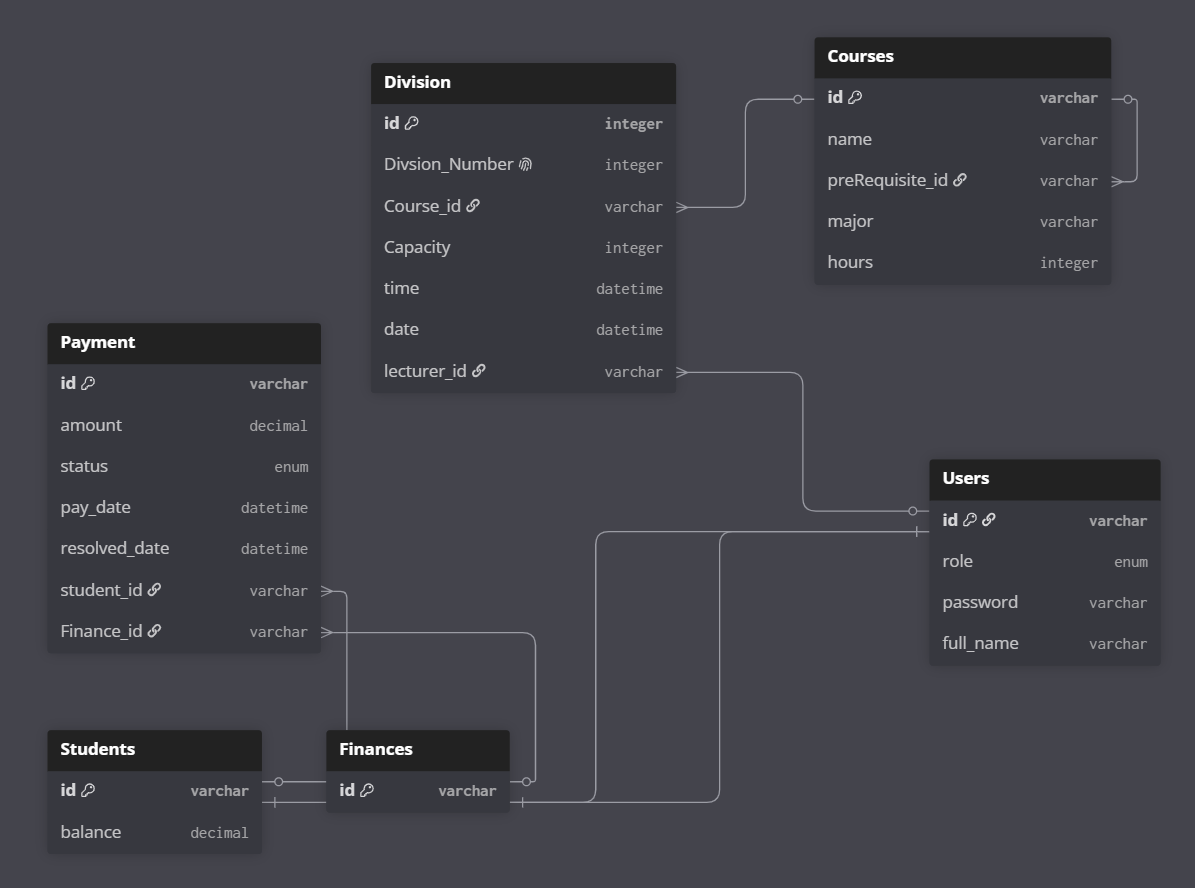
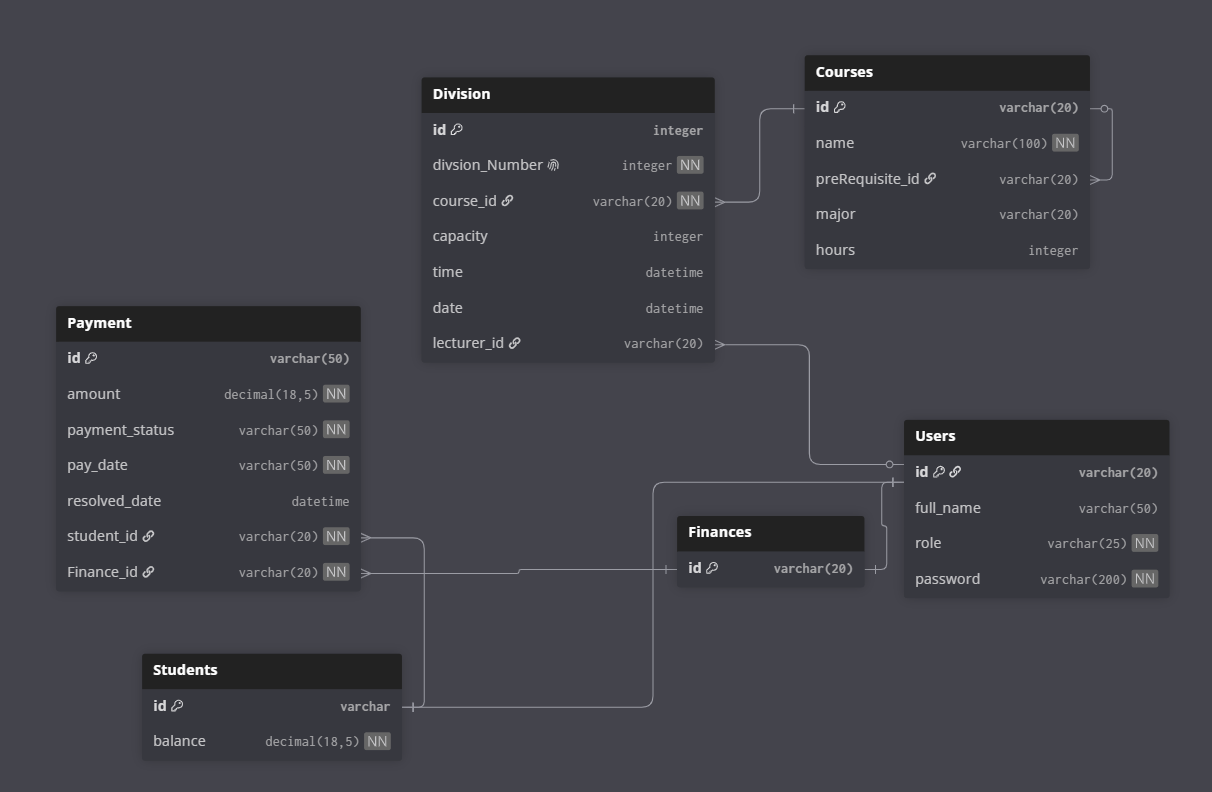
update database and models

diff --git a/Repositories/PaymentRepository.cs b/Repositories/PaymentRepository.cs
@@ -1,13 +1,42 @@
 using System;
+using System.Data.SqlClient;
+using UniversitySystem.Interface;
 using UniversitySystem.Models;
 
 namespace UniversitySystem.Repositories
 {
     public class PaymentRepository : IPaymentRepository
     {
+
+        public PaymentRepository()
+        {
+
+        }
+
         public bool AddPayment(Payment payment)
         {
-            throw new NotImplementedException();
+            using (SqlConnection conn = new SqlConnection(ConnectWithDB.ConnectionString))
+            {
+                string qurey = "insert into Payment values (@id,@amount,@paymentStatus,@payDate,@resolvedDate,@studentId,@financeId";
+                conn .Open();
+                using(SqlCommand cmd = new SqlCommand(qurey,conn)) {
+
+
+                   cmd.Parameters.AddWithValue("@id", payment.Id);
+                   cmd.Parameters.AddWithValue("@amount",payment.Amount);
+                   cmd.Parameters.AddWithValue("@paymentStatus",payment.PaymentStatus);
+                   cmd.Parameters.AddWithValue("@payDate",payment.PayDate);
+                   cmd.Parameters.AddWithValue("@resolvedDate",string.IsNullOrEmpty(payment.ResolvedDate.ToString()) ? DBNull.Value : (object)payment.ResolvedDate);
+                   cmd.Parameters.AddWithValue("@studentId",payment.StudentId);
+                   cmd.Parameters.AddWithValue("@financeId",payment.FinanceId);
+ 
+                    return cmd.ExecuteNonQuery() > 0 ? true : false;
+
+
+
+
+                }
+            }
         }
 
     }

diff --git a/Repositories/DivisionRepository.cs b/Repositories/DivisionRepository.cs
@@ -22,8 +22,8 @@ namespace UniversitySystem.Repositories
                     cmd.Parameters.AddWithValue("@Id", divisons.Id);
                     cmd.Parameters.AddWithValue("@CoursesId", divisons.CoursesId );
                     cmd.Parameters.AddWithValue("@Capacity", divisons.Capacity);
-                    cmd.Parameters.AddWithValue("@Time", string.IsNullOrEmpty(divisons.Time) ? DBNull.Value : (object)divisons.Time);
-                    cmd.Parameters.AddWithValue("@Date", string.IsNullOrEmpty(divisons.Date) ? DBNull.Value : (object)divisons.Date);
+                    cmd.Parameters.AddWithValue("@Time", divisons.Time);
+                    cmd.Parameters.AddWithValue("@Date",divisons.Date);
                     cmd.Parameters.AddWithValue("@Lecturer", string.IsNullOrEmpty(divisons.Lecturer) ? DBNull.Value : (object)divisons.Lecturer);
                     cmd.ExecuteNonQuery();
                     return true;
@@ -83,11 +83,14 @@ namespace UniversitySystem.Repositories
         private Divisions MapReaderToDivision(SqlDataReader reader)
         {
             Divisions division = new Divisions();
-            division.Id = (int)reader["id"];
+            DateTime x; 
+            division.Id = reader["id"].ToString();
             division.CoursesId = reader["courses_id"].ToString();
             division.Capacity = int.Parse(reader["capacity"].ToString());
-            division.Time = reader["time"].ToString();
-            division.Date = reader["date"].ToString();
+	    DateTime.TryParse( reader["time"].ToString() ,out x);
+            division.Time = x;
+	    DateTime.TryParse( reader["date"].ToString() ,out x);
+            division.Date = x;
             division.Lecturer = reader["lecturer"].ToString();
             return division;
         }

diff --git a/Models/Divisions.cs b/Models/Divisions.cs
@@ -1,13 +1,16 @@
 
+using System;
+
 namespace UniversitySystem.Models
 {
     public class Divisions
     {
-        public int Id { get; set; }
+        public string Id { get; set; }
+        public string DivisionNumber { get; set; }
         public string CoursesId { get; set; }
         public int Capacity { get; set; }
-        public string Time { get; set; }
-        public string Date { get; set; }
+        public DateTime Time { get; set; }
+        public DateTime Date { get; set; }
         public string Lecturer { get; set; }
     }
 }

diff --git a/Repositories/CoursesRepository.cs b/Repositories/CoursesRepository.cs
@@ -3,6 +3,7 @@ using System.Collections.Generic;
 using System.Data.SqlClient;
 using UniversitySystem.Models;
 using UniversitySystem.Interfaces;
+using System.Runtime.Remoting.Messaging;
 
 namespace UniversitySystem.Repositories
 {
@@ -57,9 +58,9 @@ namespace UniversitySystem.Repositories
         public bool AddCourse(Courses courses)
         {
 
-            if (courses == null) return false;
             using (SqlConnection conn = new SqlConnection(ConnectWithDB.ConnectionString))
             {
+                
 
                 conn.Open();
                 string query = "insert into Courses (id,name,prerequisite_id,major,hours) values (@Id,@name,@prerequisite_id,@major,@hours);";
@@ -70,9 +71,11 @@ namespace UniversitySystem.Repositories
                     cmd.Parameters.AddWithValue("@prerequisite_id",string.IsNullOrEmpty(courses.PrerequisiteId) ? DBNull.Value : (object)courses.PrerequisiteId);
                     cmd.Parameters.AddWithValue("@major", courses.Major);
                     cmd.Parameters.AddWithValue("@hours", courses.Hours);
-                    cmd.ExecuteNonQuery();
 
-                    return true;
+                    return cmd.ExecuteNonQuery() > 0 ? true : false;
+
+                    
+
                 }
                
             }

diff --git a/Enums/UserRole.cs b/Enums/UserRole.cs
@@ -1,5 +1,5 @@
 
-namespace UniversitySystem.Models
+namespace UniversitySystem.Enums
 {
     public enum UserRole
     {

diff --git a/Models/Users.cs b/Models/Users.cs
@@ -6,7 +6,7 @@ namespace UniversitySystem.Models
     public class Users
     {
         public string Id { get; set; }
-        public string Username { get; set; }
+        public string FullName { get; set; }
         public UserRole Role{ get; set; }
         public string Password { get; set; }
     }

diff --git a/Repositories/UserRepository.cs b/Repositories/UserRepository.cs
@@ -3,6 +3,7 @@ using System.Collections.Generic;
 using System.Data.SqlClient;
 using UniversitySystem.Models;
 using UniversitySystem.Interfaces;
+using UniversitySystem.Enums;
 
 
 namespace UniversitySystem.Repositories
@@ -13,7 +14,6 @@ namespace UniversitySystem.Repositories
         public bool AddUser(Users user)
         {
 
-            if (user == null) return false;
 
 
             using (SqlConnection conn = new SqlConnection(ConnectWithDB.ConnectionString))